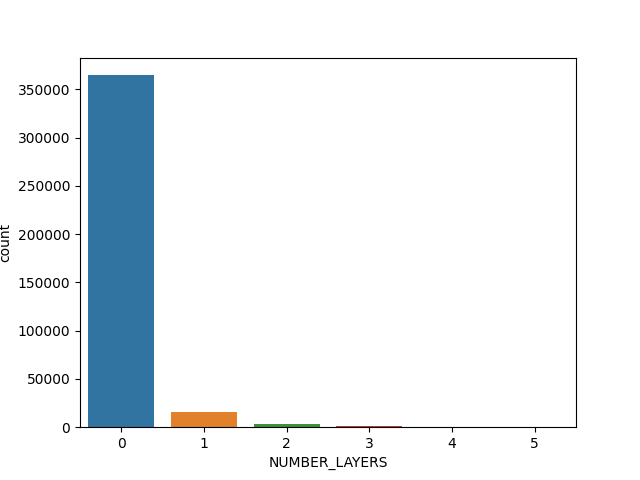
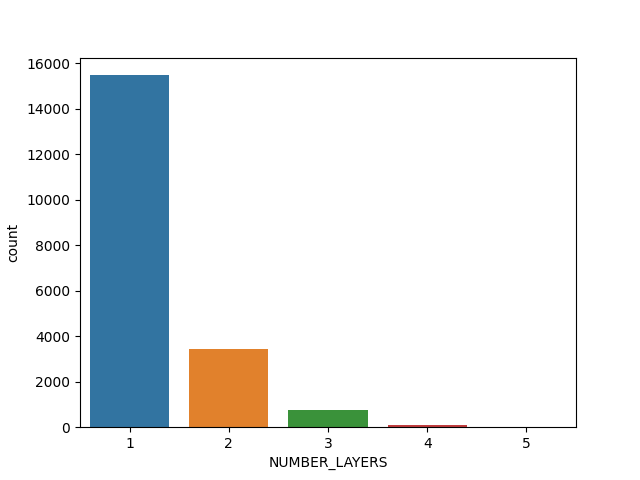
Added Scatterplot

diff --git a/main.py b/main.py
@@ -4,11 +4,17 @@ import seaborn
 data = pd.read_csv('data/Mars Crater Dataset.csv')
 print(data)
 
-sub1 = data[(data["NUMBER_LAYERS"] >= 0)]
+sub1 = data[(data["NUMBER_LAYERS"] > 0)]
 sub2 = sub1.copy()
+sub3 = sub2.copy()
 
 plt = seaborn.countplot(x="NUMBER_LAYERS", data=sub2)
 fig = plt.get_figure()
 fig.savefig('a.png') 
 
+sub3["DIAM_CIRCLE_IMAGE"] = pd.cut(sub2["DIAM_CIRCLE_IMAGE"], [0,15,30,45,60,75,90, 105])
+sub3["DIAM_CIRCLE_IMAGE"] = sub3["DIAM_CIRCLE_IMAGE"].astype("category")
 
+scat1 = seaborn.regplot(x = "LONGITUDE_CIRCLE_IMAGE", y = "DIAM_CIRCLE_IMAGE", fit_reg = False, data = data)
+c = scat1.get_figure()
+c.savefig('b.png') 
